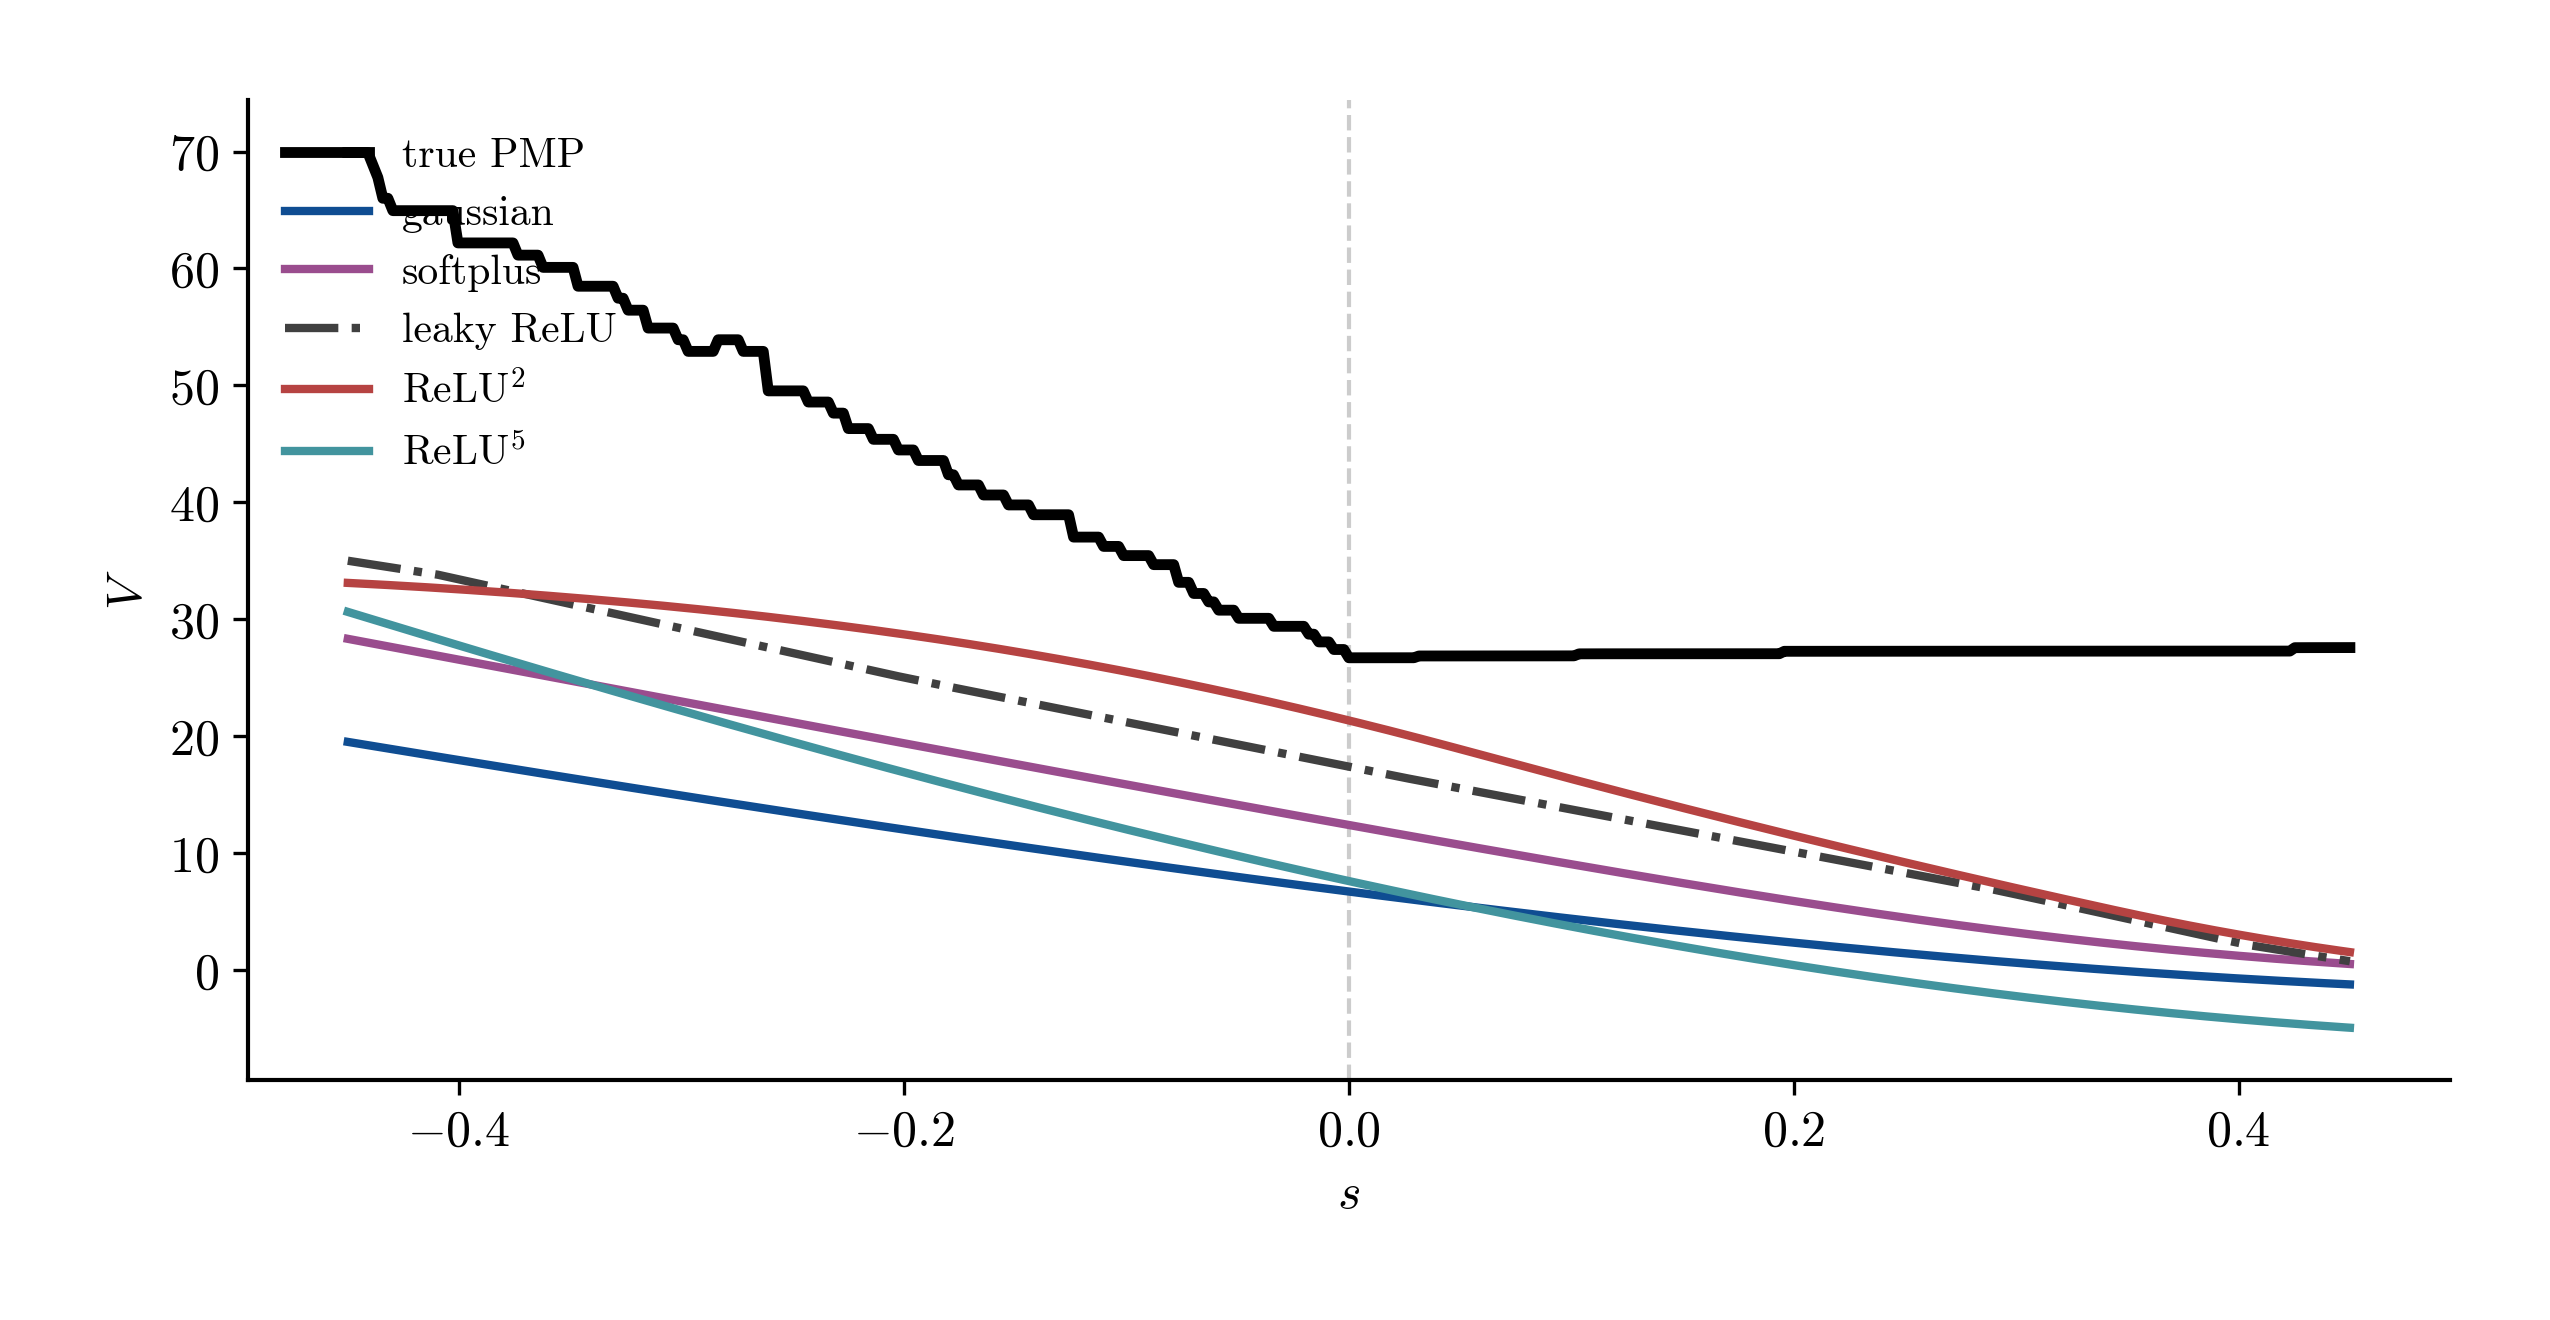
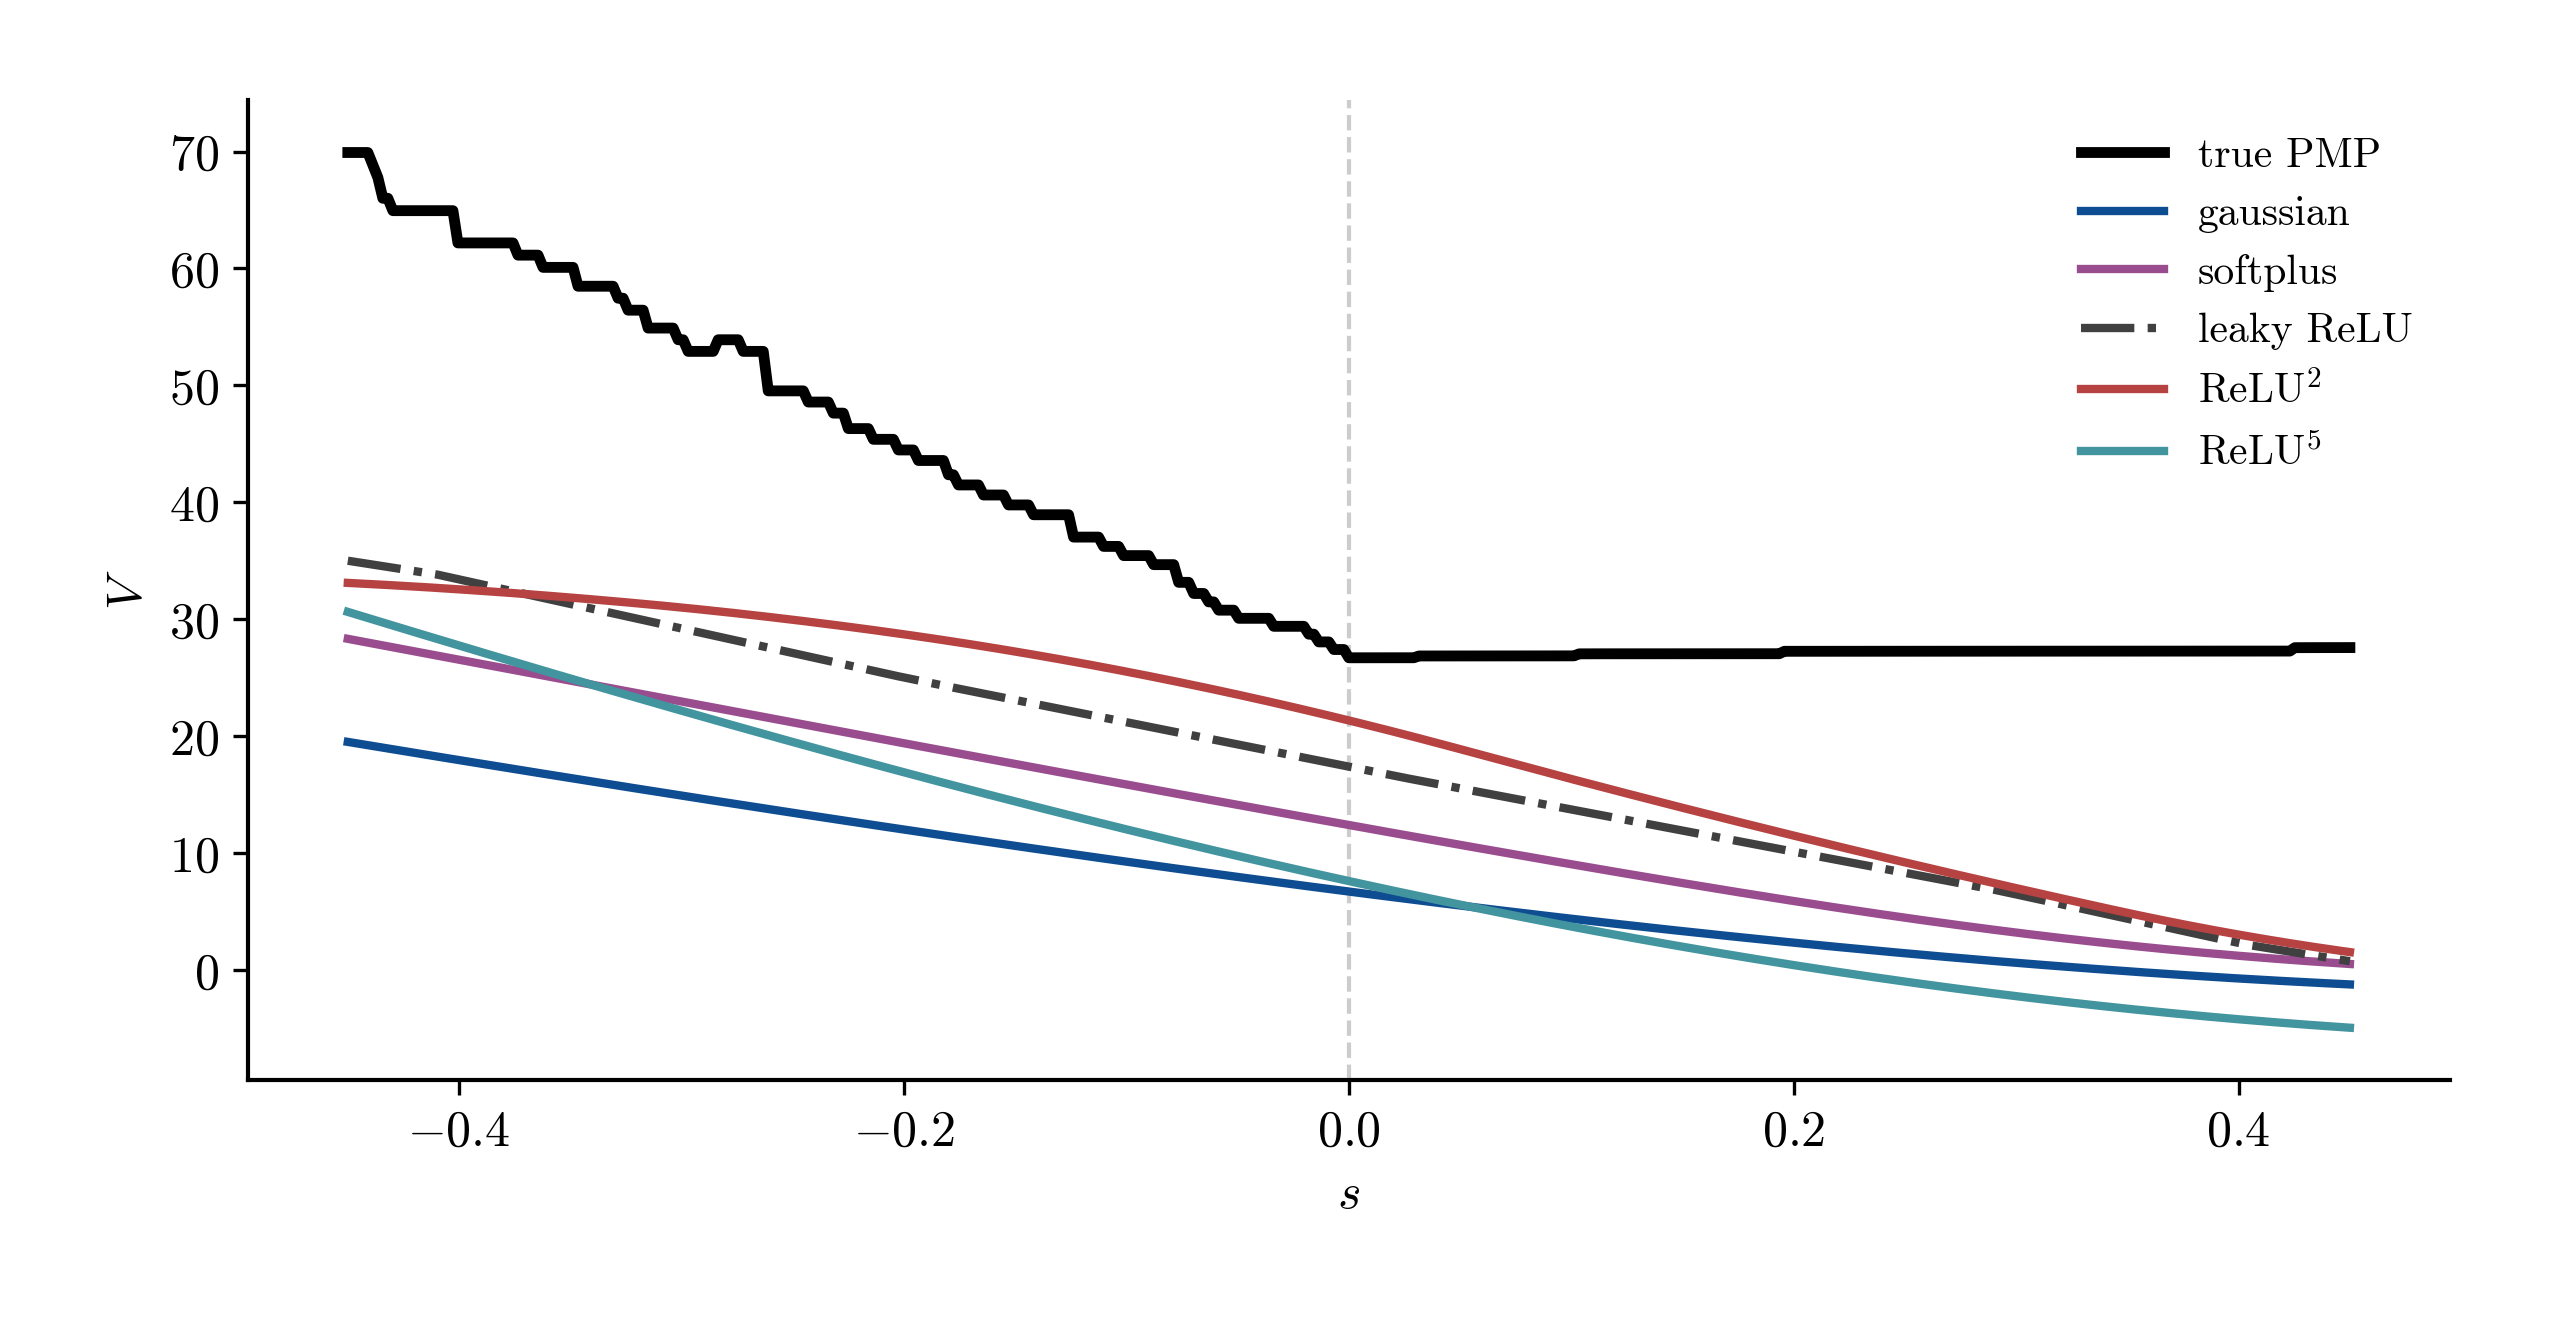
fix(region_split): move transect legends out of the data
The upper-left legend sat on top of the curves in both transect panels.
Per-panel placement matched to where the data leaves room: value panel
upper right (empty above the flat post-switch truth branch), gradient
panel lower right (all curves stay above it for s > 0).

diff --git a/experiments/03_region_split_pendulum/analysis.py b/experiments/03_region_split_pendulum/analysis.py
@@ -465,6 +465,10 @@ def fig_transect_split(models: dict[str, dict[str, Any]], nets: dict[str, Any], 
         model_values[name] = (v, g @ nrm)
 
     out: dict[str, str] = {}
+    # Per-panel legend corner, matched to where the data leaves room: the value
+    # panel is empty above the flat truth branch (upper right), the gradient
+    # panel below the model plateaus for s > 0 (lower right).
+    legend_loc = {"value": "upper right", "gradient": "lower right"}
     for key, truth, ylabel, stem in (
         ("value", v_true, r"$V$", "transect_value"),
         ("gradient", g_true, r"$n\cdot\nabla V$", "transect_normal_gradient"),
@@ -485,7 +489,7 @@ def fig_transect_split(models: dict[str, dict[str, Any]], nets: dict[str, Any], 
         ax.set_ylim(ymin - pad, ymax + pad)
         ax.set_xlabel(r"$s$")
         ax.set_ylabel(ylabel)
-        ax.legend(loc="upper left", fontsize=10)
+        ax.legend(loc=legend_loc[key], fontsize=10)
         out[key] = _save_png(fig, stem)
     return out
 